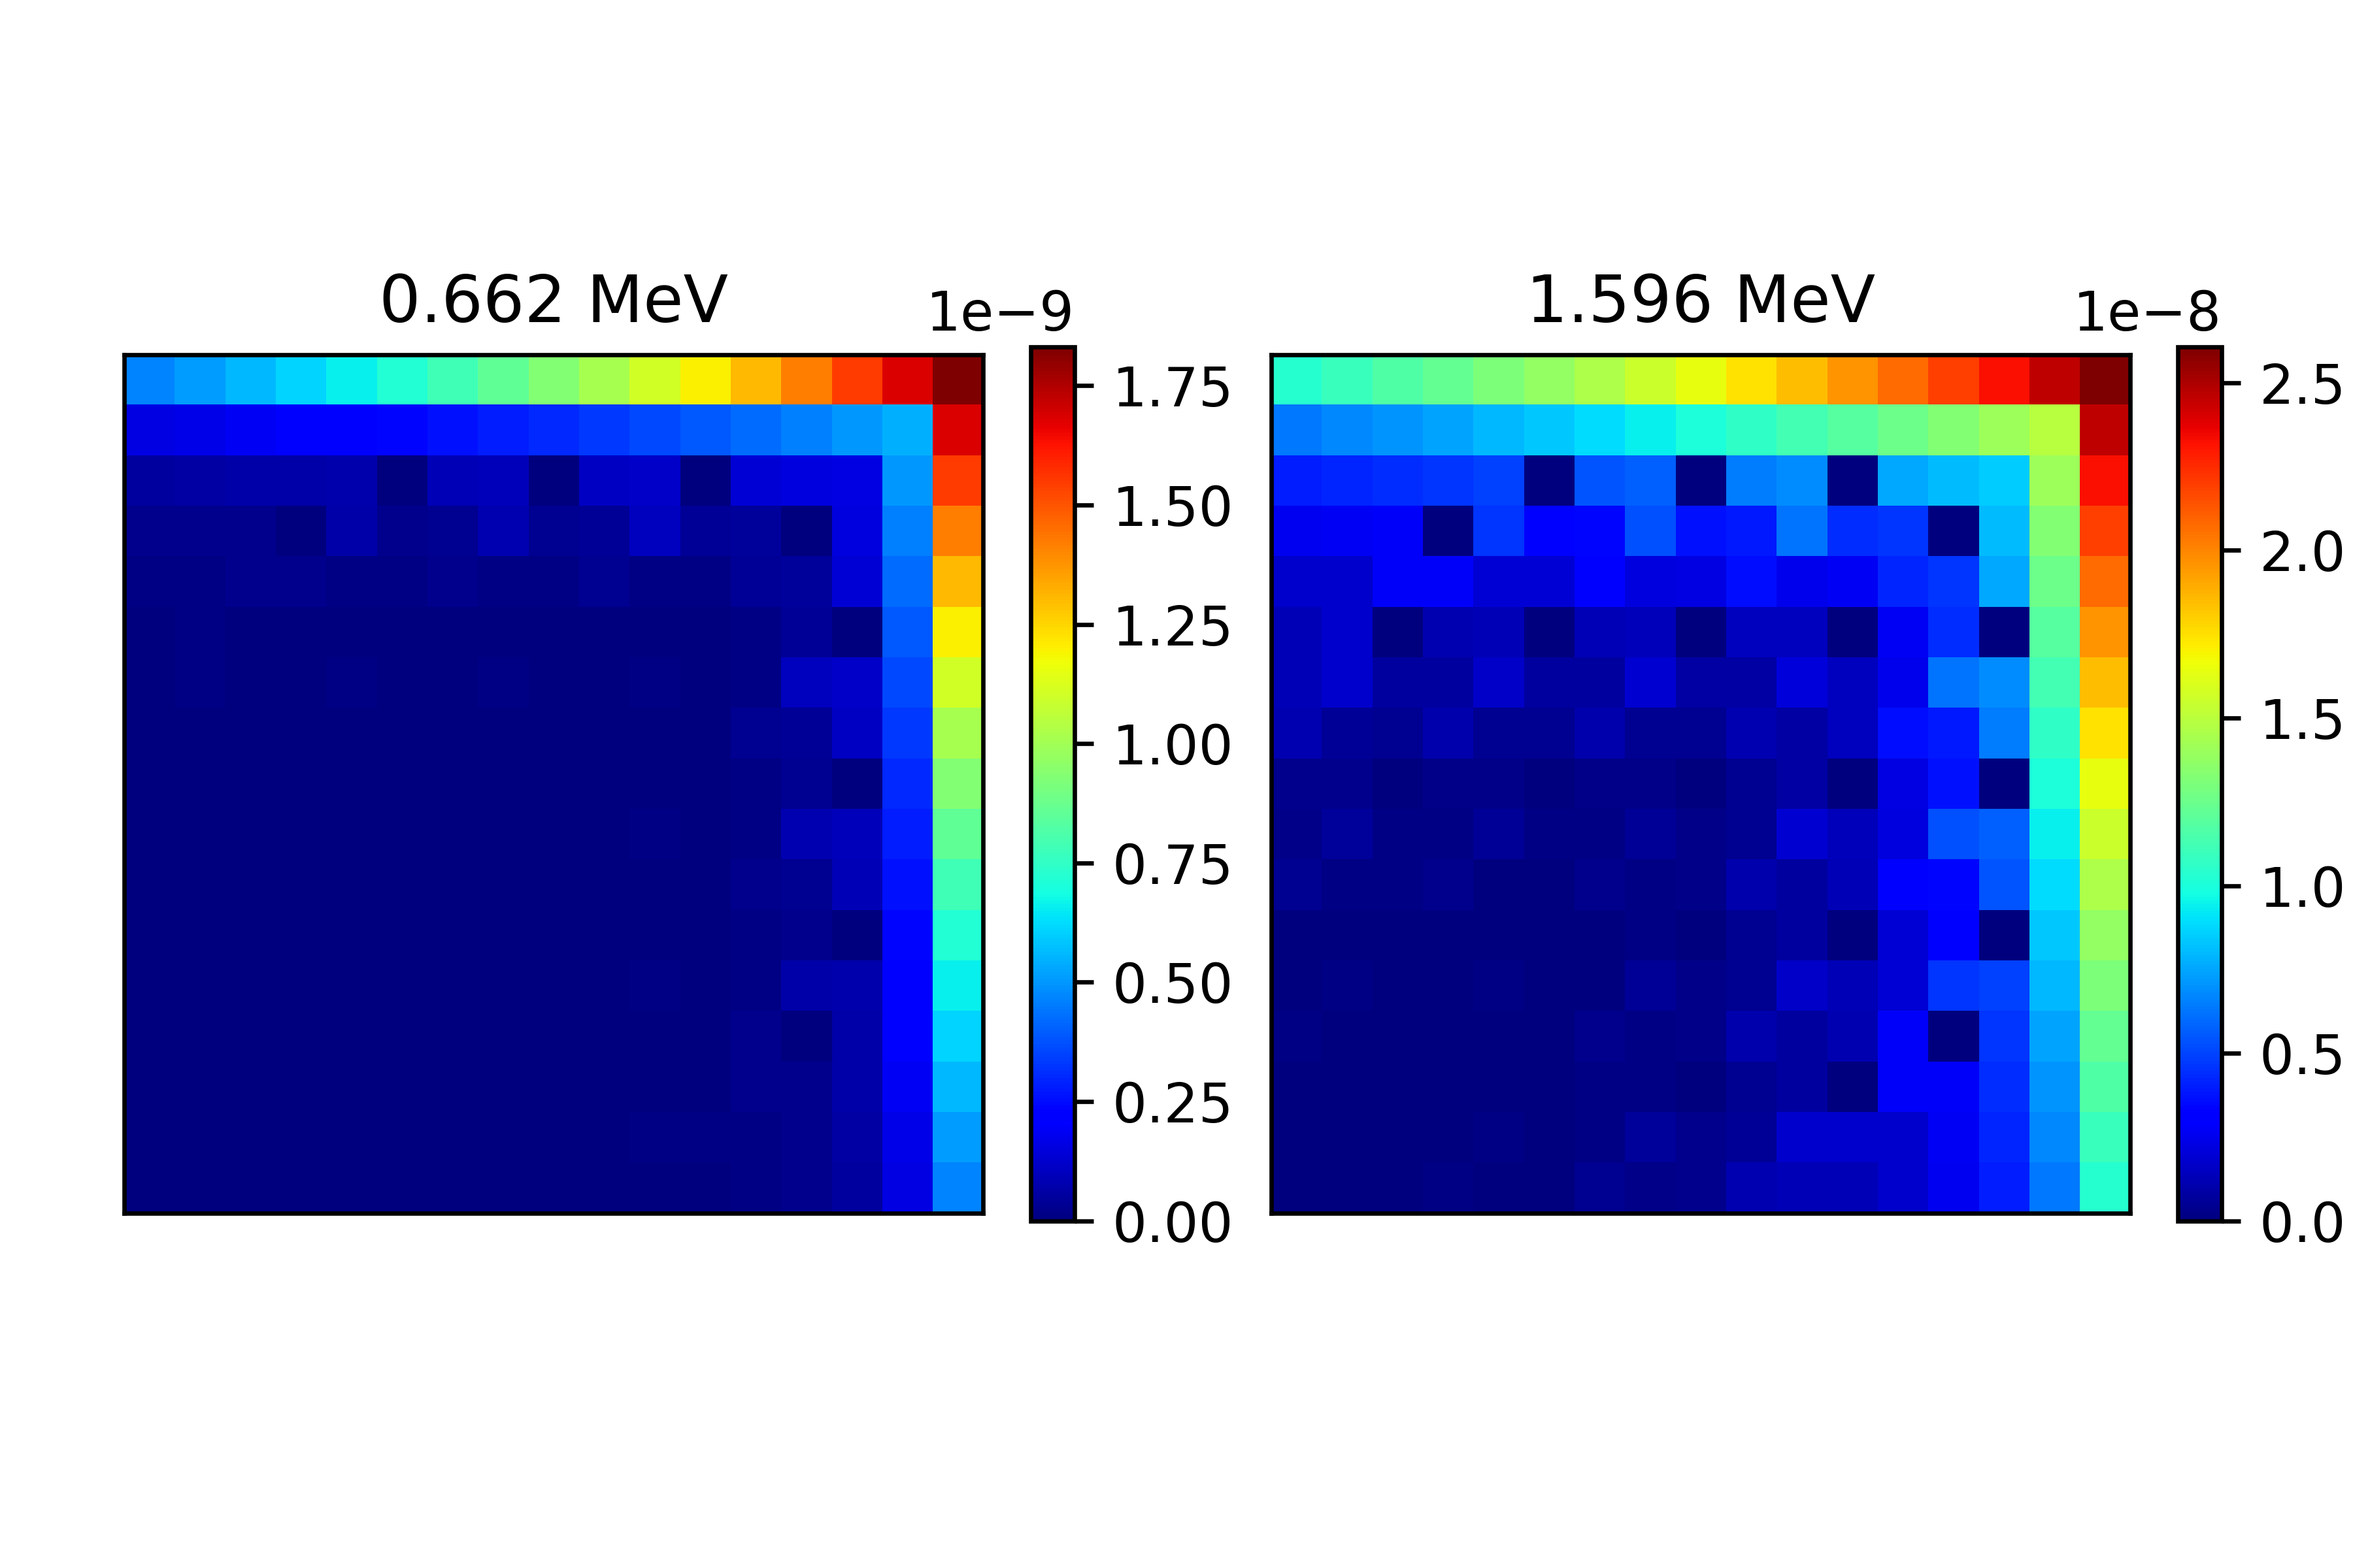
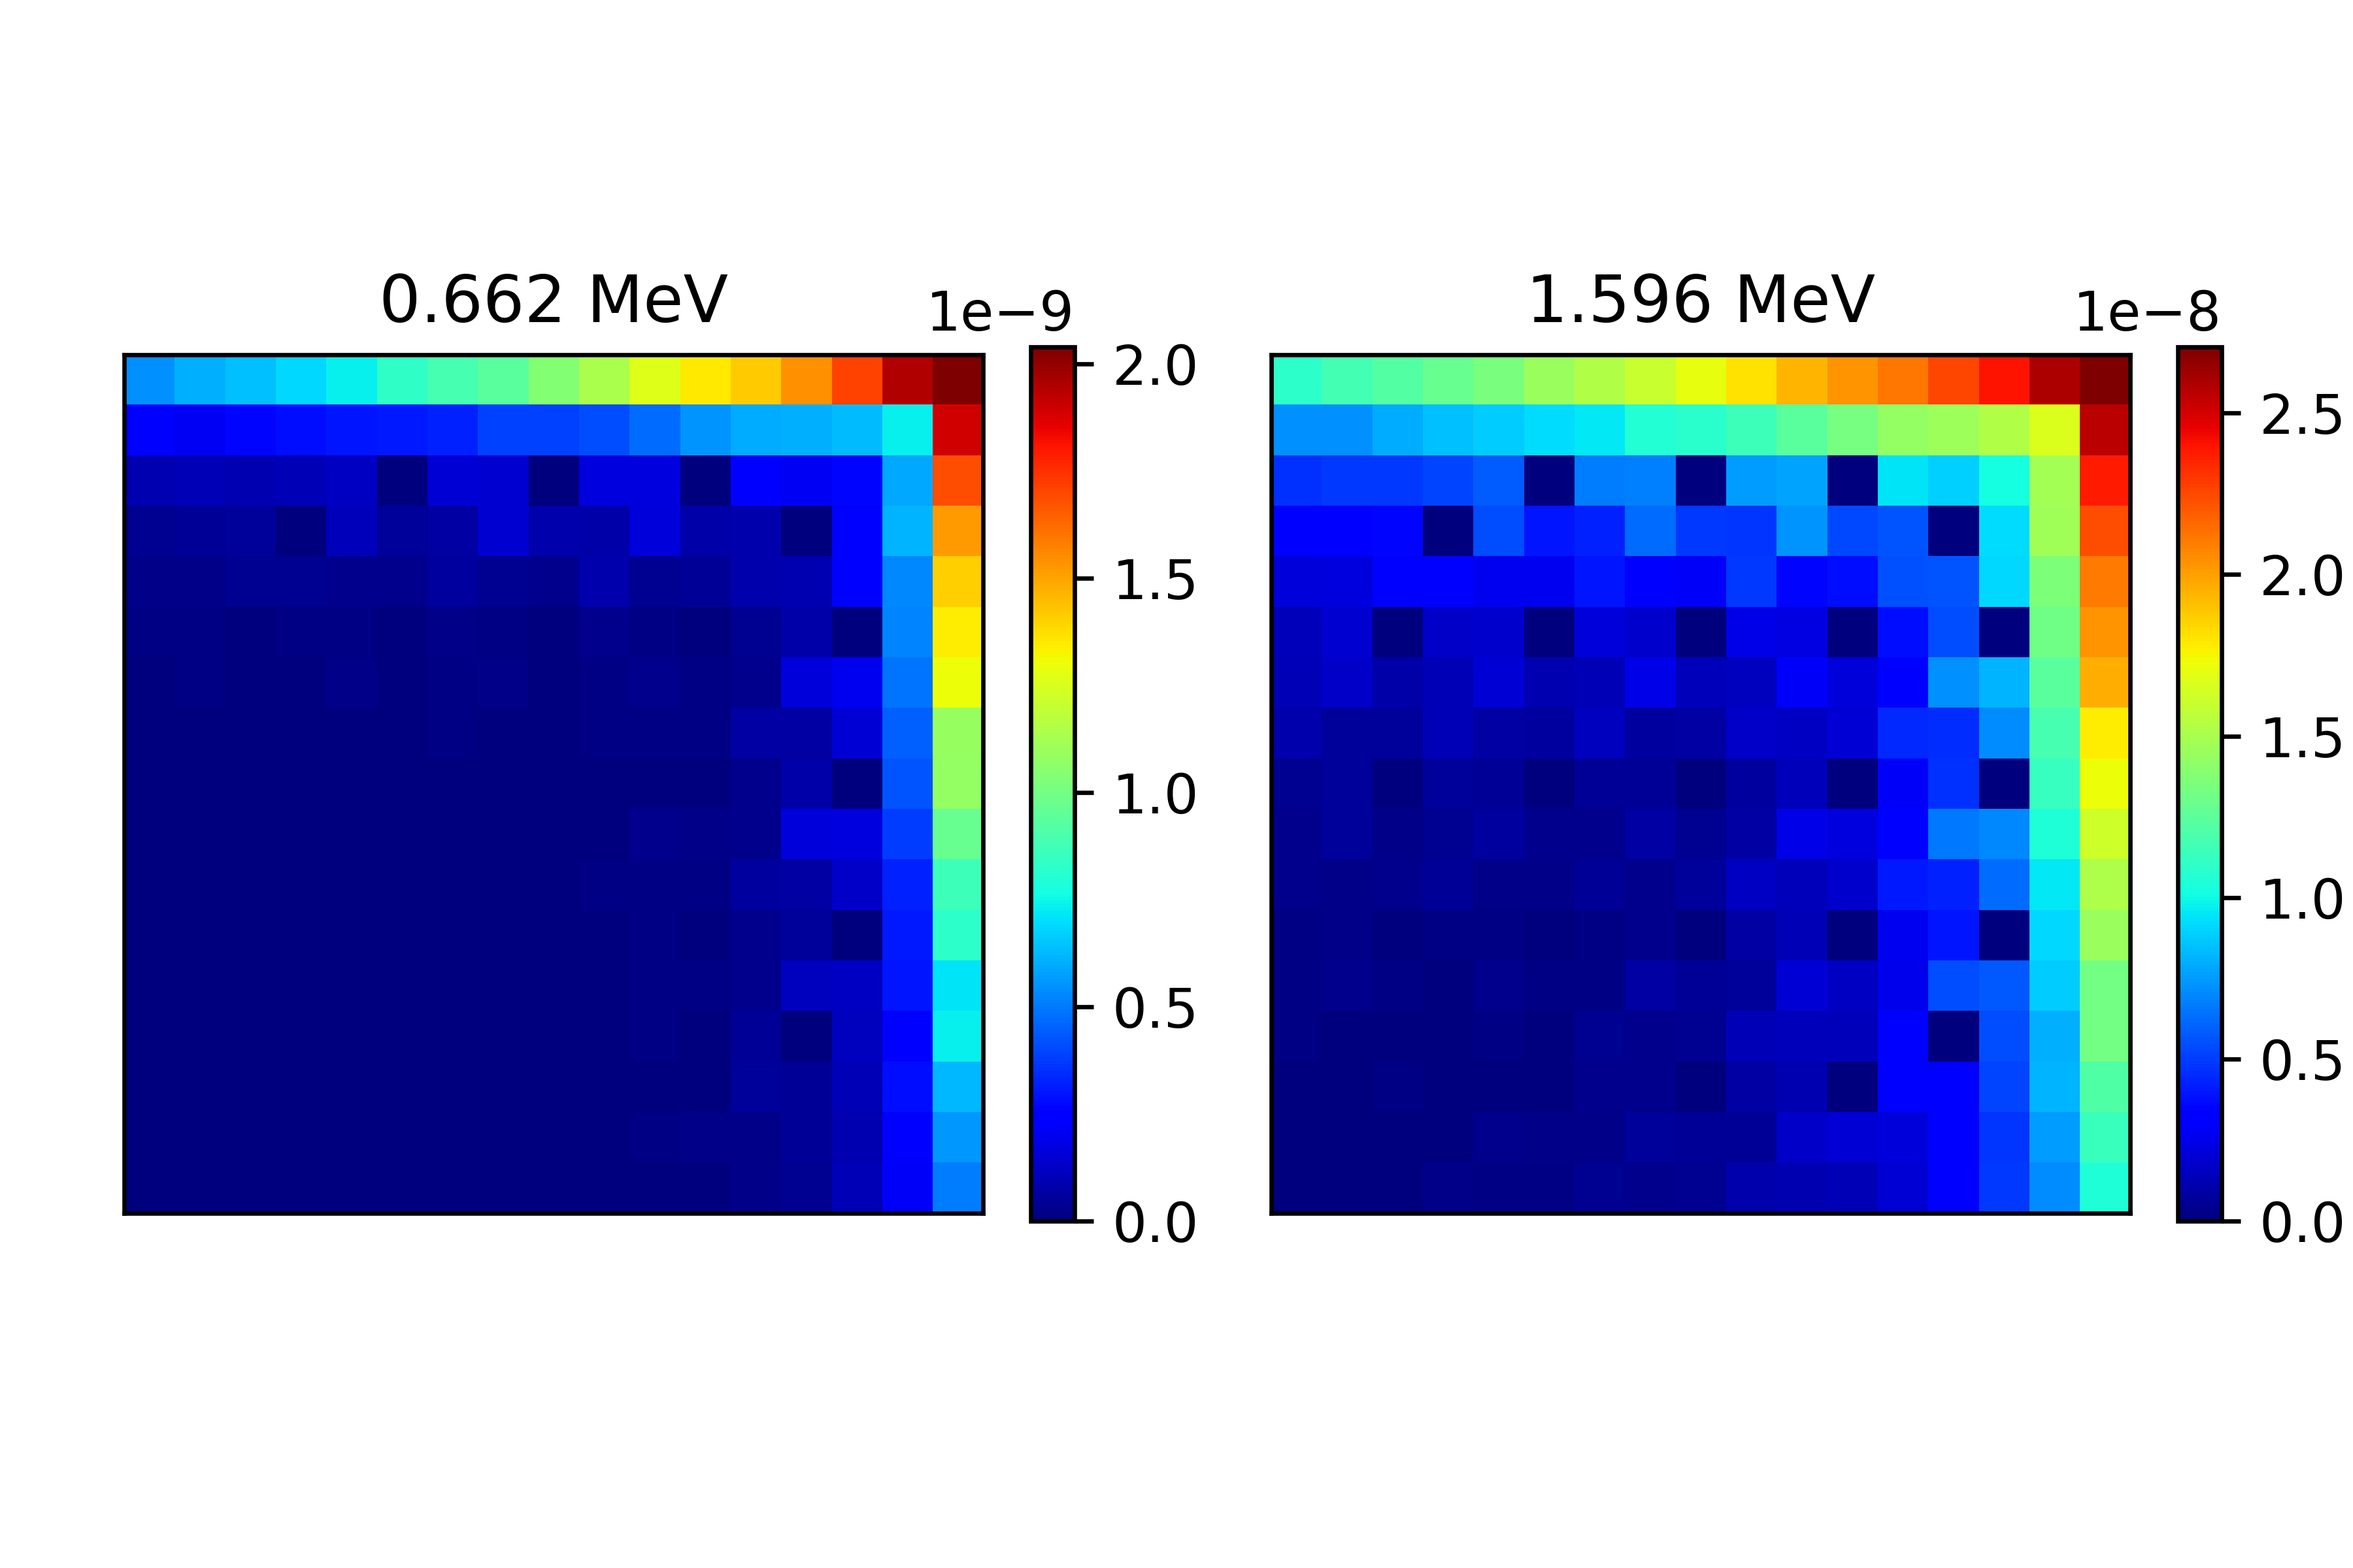
paper updated figures

diff --git a/paper/paper.md b/paper/paper.md
@@ -30,17 +30,15 @@ Passive gamma spectroscopy provides a robust and relatively simple method to ana
 
 # feign
 
-``feign`` is a Python package which implements a 2D point-kernel method to estimate the uncollided point-detector gamma flux around a rectangular spent fuel assembly. The user defines the experimental setup: materials, pin types (consisting of nested annular material regions), assembly lattice, detector locations and optionally collimators and additional absorber elements. Then, the program iterates through each lattice position containing source material and calculates the distance traveled in various materials towards the detector point by a gamma-ray emitted from the given position. A traveled distance map can be seen in \ref{fig:distance} for a 17x17 PWR assembly measured at the passive gamma spectroscopy station of the Swedish Central Interim Storage Facility for Spent Nuclear Fuel (Clab) as described by [@Vaccaro2016]. Based on the traveled distance maps and user-provided mass attenuation coefficient data, the program evaluates the probability (or point-flux per source particle)
+``feign`` is a Python package which implements a 2D point-kernel method to estimate the uncollided point-detector gamma flux around a rectangular spent fuel assembly. The user defines the experimental setup: materials, pin types (consisting of nested annular material regions), assembly lattice, detector locations and optionally collimators and additional absorber elements. Then, the program iterates through each lattice position containing source material and calculates the distance traveled in various materials towards the detector point by a gamma-ray emitted from the given lattice position. Based on the user input, the actual source location is either the center of the pin or a randomly selected location (then the user sets the number of randomly selected locations per pin, in order to estimate the standard deviation of the traveled distances). A traveled distance map can be seen in Fig. \ref{fig:distance} for a 17x17 PWR assembly measured at the passive gamma spectroscopy station of the Swedish Central Interim Storage Facility for Spent Nuclear Fuel (Clab) as described by [@Vaccaro2016]. The detector point is facing the upper right corner. Based on the traveled distance maps and user-provided mass attenuation coefficient data, the program evaluates the probability (or point-flux per source particle)
 
 $$\frac{1}{4\pi R_{i}^2}\prod\limits_m e^{-\mu_m(E) d_{i,m}}$$
 
-for each energy _E_ requested by the user that a gamma-ray emitted from position _i_ hits the detector without collision. Where $$R_i$$ is the distance between the position and the detector, $$\mu_m$$ is the total attenuation coefficient of material _m_ and $$d_{i,m}$$ is the distance traveled by a gamma-ray emitted from position _i_ through material _m_. A contribution map can be seen in \ref{fig:contribution} for the same 17x17 assembly. When summing up the contributions made by each pin for each energy, one gets the geometric efficiency of the system, as shown in \ref{fig:geomeff}.
+for each energy _E_ requested by the user that a gamma-ray emitted from position _i_ hits the detector without collision. Where $$R_i$$ is the distance between the source position and the detector, $$\mu_m$$ is the total attenuation coefficient of material _m_ and $$d_{i,m}$$ is the distance traveled by a gamma-ray emitted from position _i_ through material _m_. A contribution map can be seen in Fig. \ref{fig:contribution} for the same 17x17 assembly. When summing up the contributions made by each pin for each energy, one gets the geometric efficiency of the system. Fig. \ref{fig:geomeff} illustrates a case when the source locations are the center of the pins and a case when ten source locations per pin were randomly selected. One can see that the pin center approximation might overestimate the traveled distances, thus underestimate the geometric efficiency. 
 
 The program includes several approximations, which limits its area of applications. These approximations and the rationale behind them are the following:
 
 - The program is limited to 2D geometries. In case, collimators with a narrow horizontal slit are placed in front of the detector points, the axial dependence is negligible.
-
-- The gamma-ray source locations are considered to be at the middle of the pins. In case, the distance between the detector and the assembly is several order of magnitude larger than the pin diameter, this becomes a reasonable approximation for rectangular lattices.
 
 - The build-up factor is neglected. If the detector has a high energy resolution, then it becomes a valid approximation to consider that for a given gamma-peak only photons directly hitting the detector can contribute, and photons participating in scattering reactions will contribute only to the background, which ideally should be removed during the analysis of the spectrum. 
 
@@ -50,7 +48,7 @@ Thus, for typical spent fuel passive gamma spectroscopy setups ``feign`` will pr
 
 ![An example of contributions made by a pin position to a detector for a 17x17 PWR assembly measured at Clab. Each pixel represents the probability that a gamma-ray emitted from that position directly hits the detector.\label{fig:contribution}](article_contribution.png)
 
-![An example of geometric efficiency calculated for a 17x17 PWR assembly measured at Clab.\label{fig:geomeff}](article_geomeff.png)
+![An example of geometric efficiency calculated for a 17x17 PWR assembly measured at Clab.\label{fig:geomeff}](article_geomeffave.png)
 
 
 # Acknowledgement
